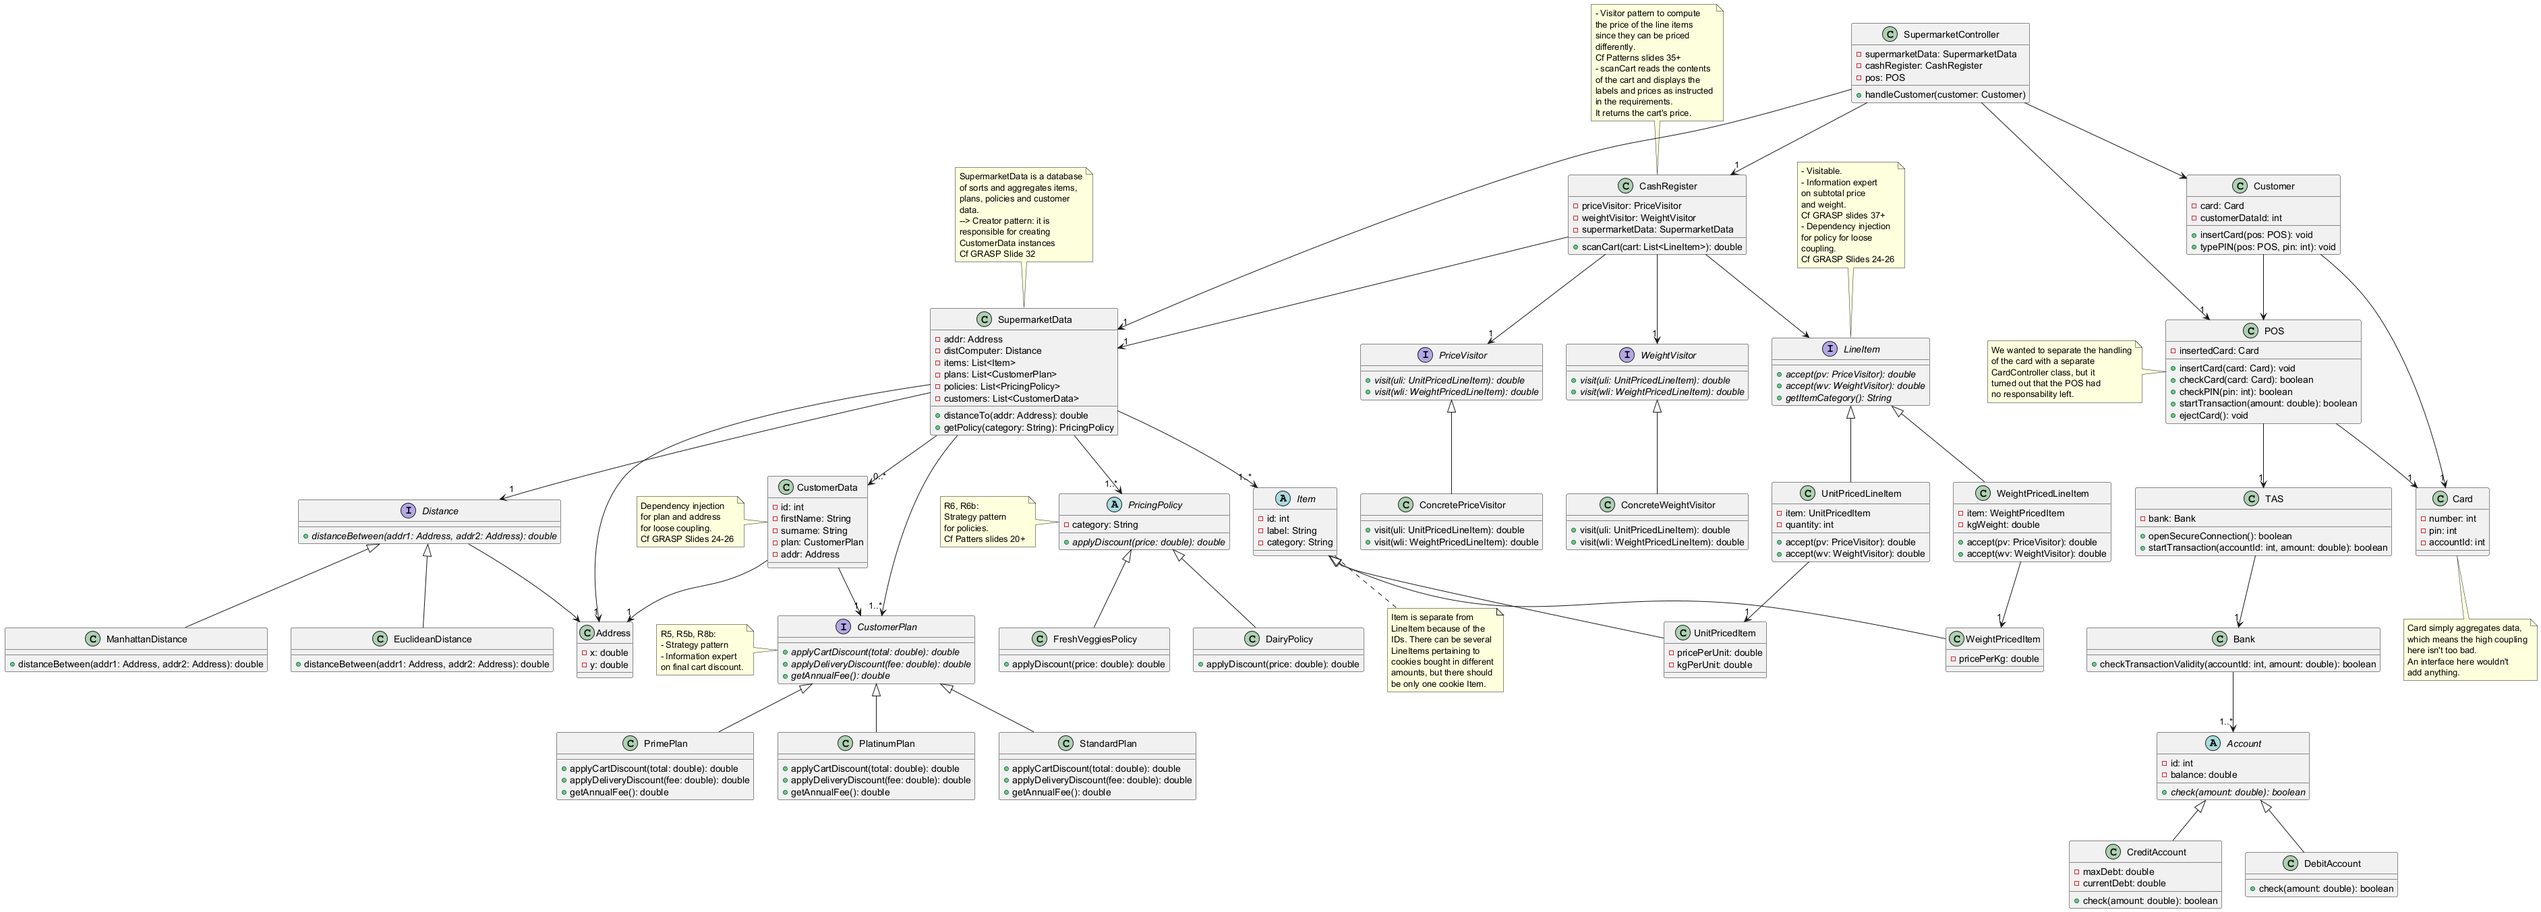
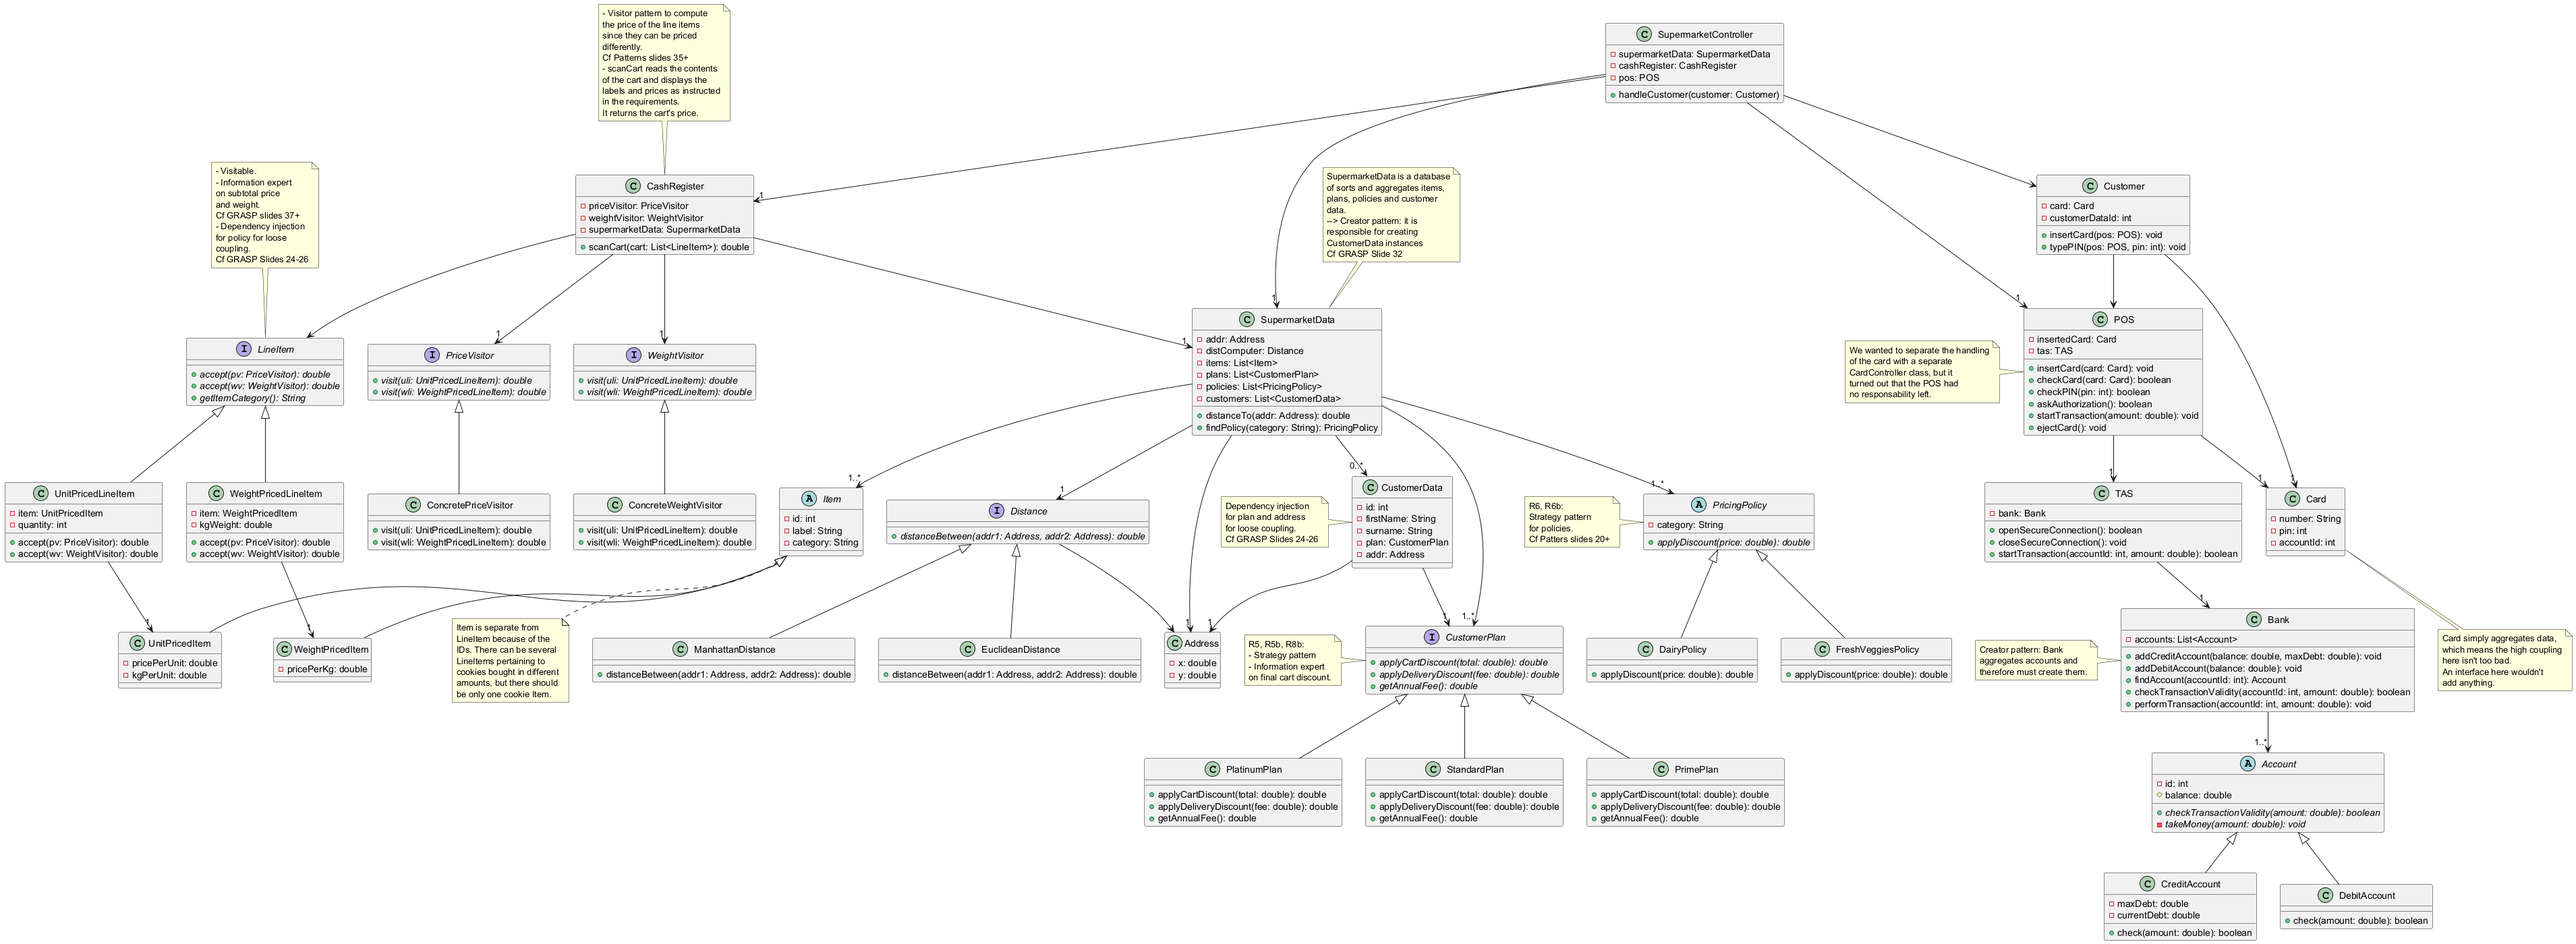
fixes on customer data, pricing policy, distance implementations

diff --git a/scs/src/CustomerData.java b/scs/src/CustomerData.java
@@ -3,7 +3,7 @@ public class CustomerData {
 	// Very simple way to generate ids: keep a static counter and increment it
 	private static int counter_ = 0;
 	
-	private int id_;
+	private final int id_;
 	private String firstName_;
 	private String surname_;
 	private CustomerPlan plan_;
@@ -19,6 +19,22 @@ public class CustomerData {
 
 	public int getId() {
 		return id_;
+	}
+
+	public void setFirstName(String firstName) {
+		this.firstName_ = firstName;
+	}
+
+	public void setSurname(String surname) {
+		this.surname_ = surname;
+	}
+
+	public void setPlan(CustomerPlan plan) {
+		this.plan_ = plan;
+	}
+
+	public void setAddr(Address addr) {
+		this.addr_ = addr;
 	}
 
 	public String getFirstName() {

diff --git a/scs/src/PricingPolicy.java b/scs/src/PricingPolicy.java
@@ -2,10 +2,13 @@ public abstract class PricingPolicy {
 	private String category_;
 	
 	public PricingPolicy(String category) {
-		super();
 		this.category_ = category;
 	}
-	
+
+	public void setCategory(String category) {
+		this.category_ = category_;
+	}
+
 	public String getCategory() {
 		return this.category_;
 	}

diff --git a/scs/src/SupermarketData.java b/scs/src/SupermarketData.java
@@ -46,4 +46,13 @@ public class SupermarketData {
 		}
 		return null;
 	}
+
+	public CustomerData findCustomerData(int customerDataId) {
+		for (CustomerData customerData : this.customers_) {
+			if (customerData.getId() == customerDataId) {
+				return customerData;
+			}
+		}
+		return null;
+	}
 }

diff --git a/scs/src/CustomerPlan.java b/scs/src/CustomerPlan.java
@@ -1,5 +1,5 @@
 public interface CustomerPlan {
-	public double applyCartDiscount(double price);
-	public double applyDeliveryDiscount(double fee);
-	public double getAnnualFee();
+	double applyCartDiscount(double price);
+	double applyDeliveryDiscount(double fee);
+	double getAnnualFee();
 }

diff --git a/scs/src/CashRegister.java b/scs/src/CashRegister.java
@@ -13,6 +13,11 @@ public class CashRegister {
 	
 	public double scanCart(List<LineItem> cart) {
 		double cartPrice = 0.0;
+		double cartWeight = 0.0;
+		
+		for (LineItem item : cart) {
+
+		}
 		// TODO
 		//for (LineItem li: cart) {
 		//	double liPrice = li.accept(priceVisitor_)

diff --git a/scs/src/Address.java b/scs/src/Address.java
@@ -7,6 +7,11 @@ public class Address {
 		this.y_ = y;
 	}
 
+	public void setPoint(double x, double y) {
+		this.x_ = x;
+		this.y_ = y;
+	}
+
 	public double getX() {
 		return x_;
 	}

diff --git a/scs/src/DairyPolicy.java b/scs/src/DairyPolicy.java
@@ -10,6 +10,8 @@ public class DairyPolicy extends PricingPolicy {
 		if (price >= 20) {
 			return 0.85*price;
 		}
-		return 0.95*price;
+		else {
+			return 0.95*price;
+		}
 	}
 }

diff --git a/scs/src/Distance.java b/scs/src/Distance.java
@@ -1,3 +1,3 @@
 public interface Distance {
-	public double distanceBetween(Address addr1, Address addr2);
+	double distanceBetween(Address addr1, Address addr2);
 }
